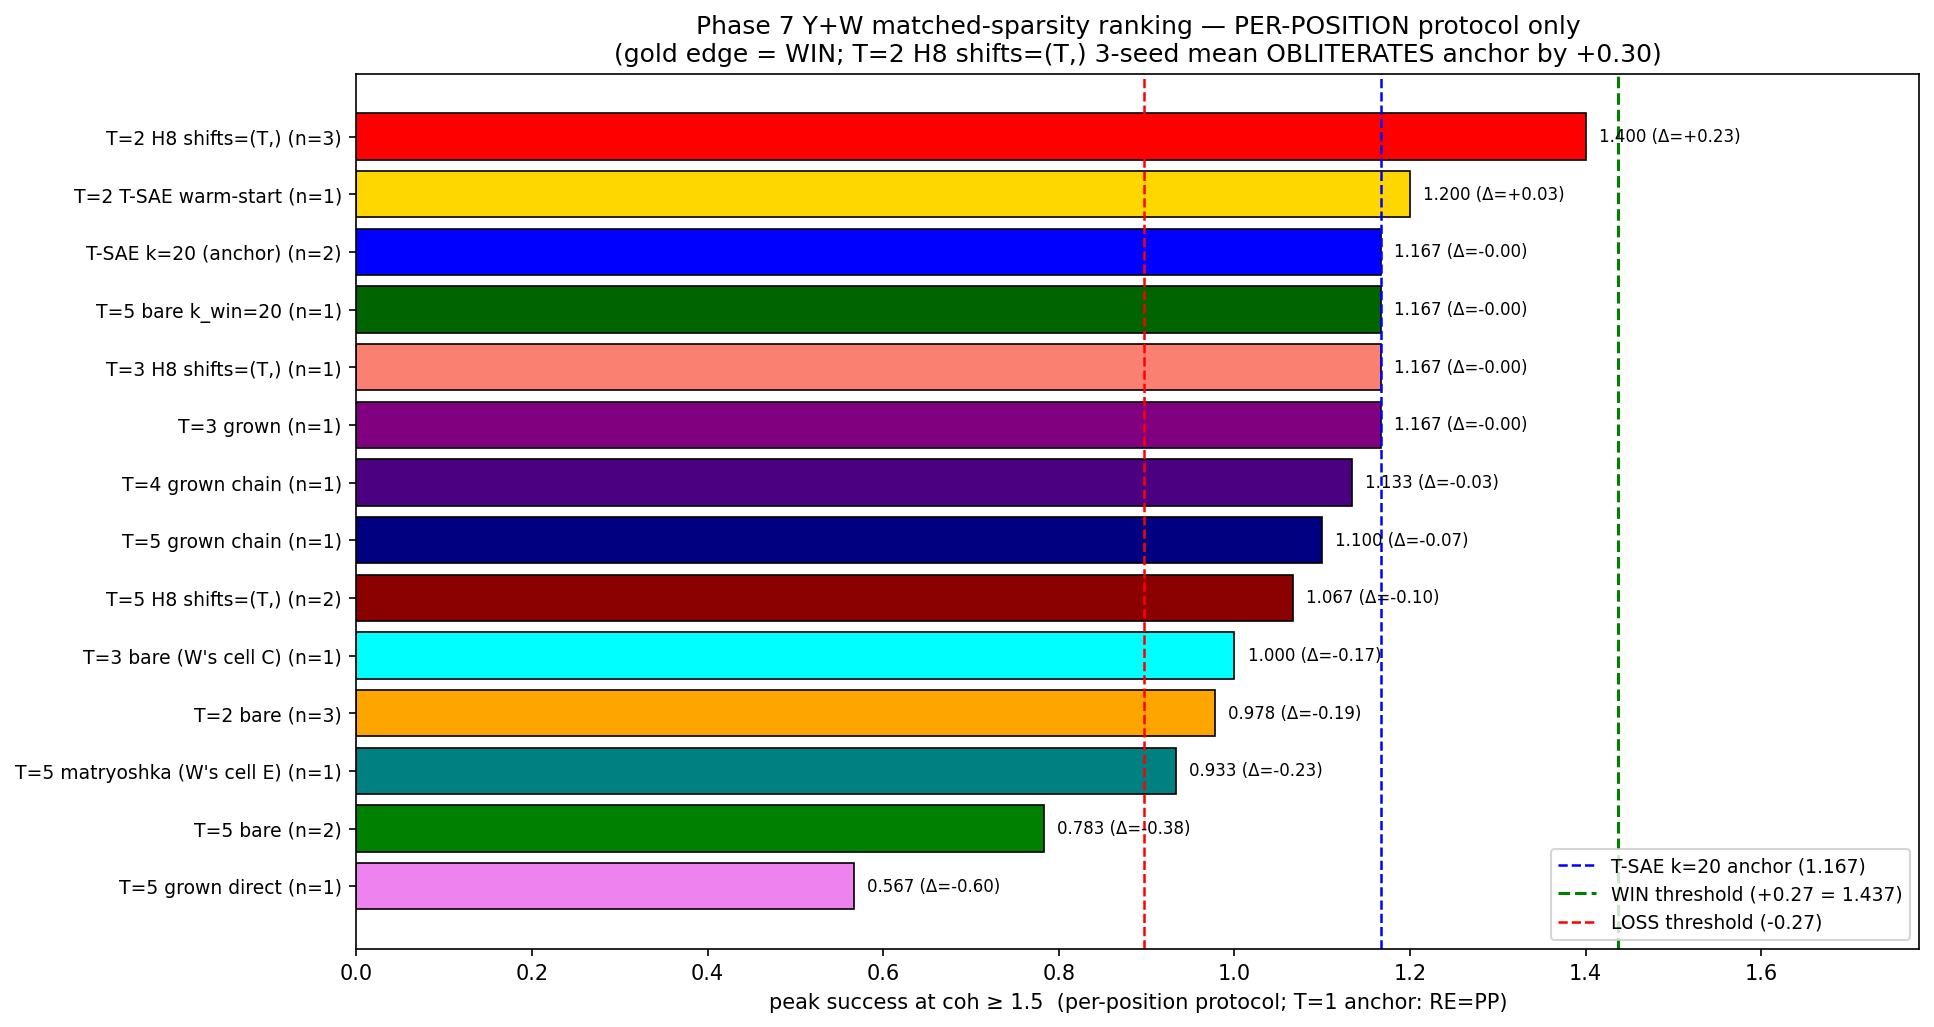
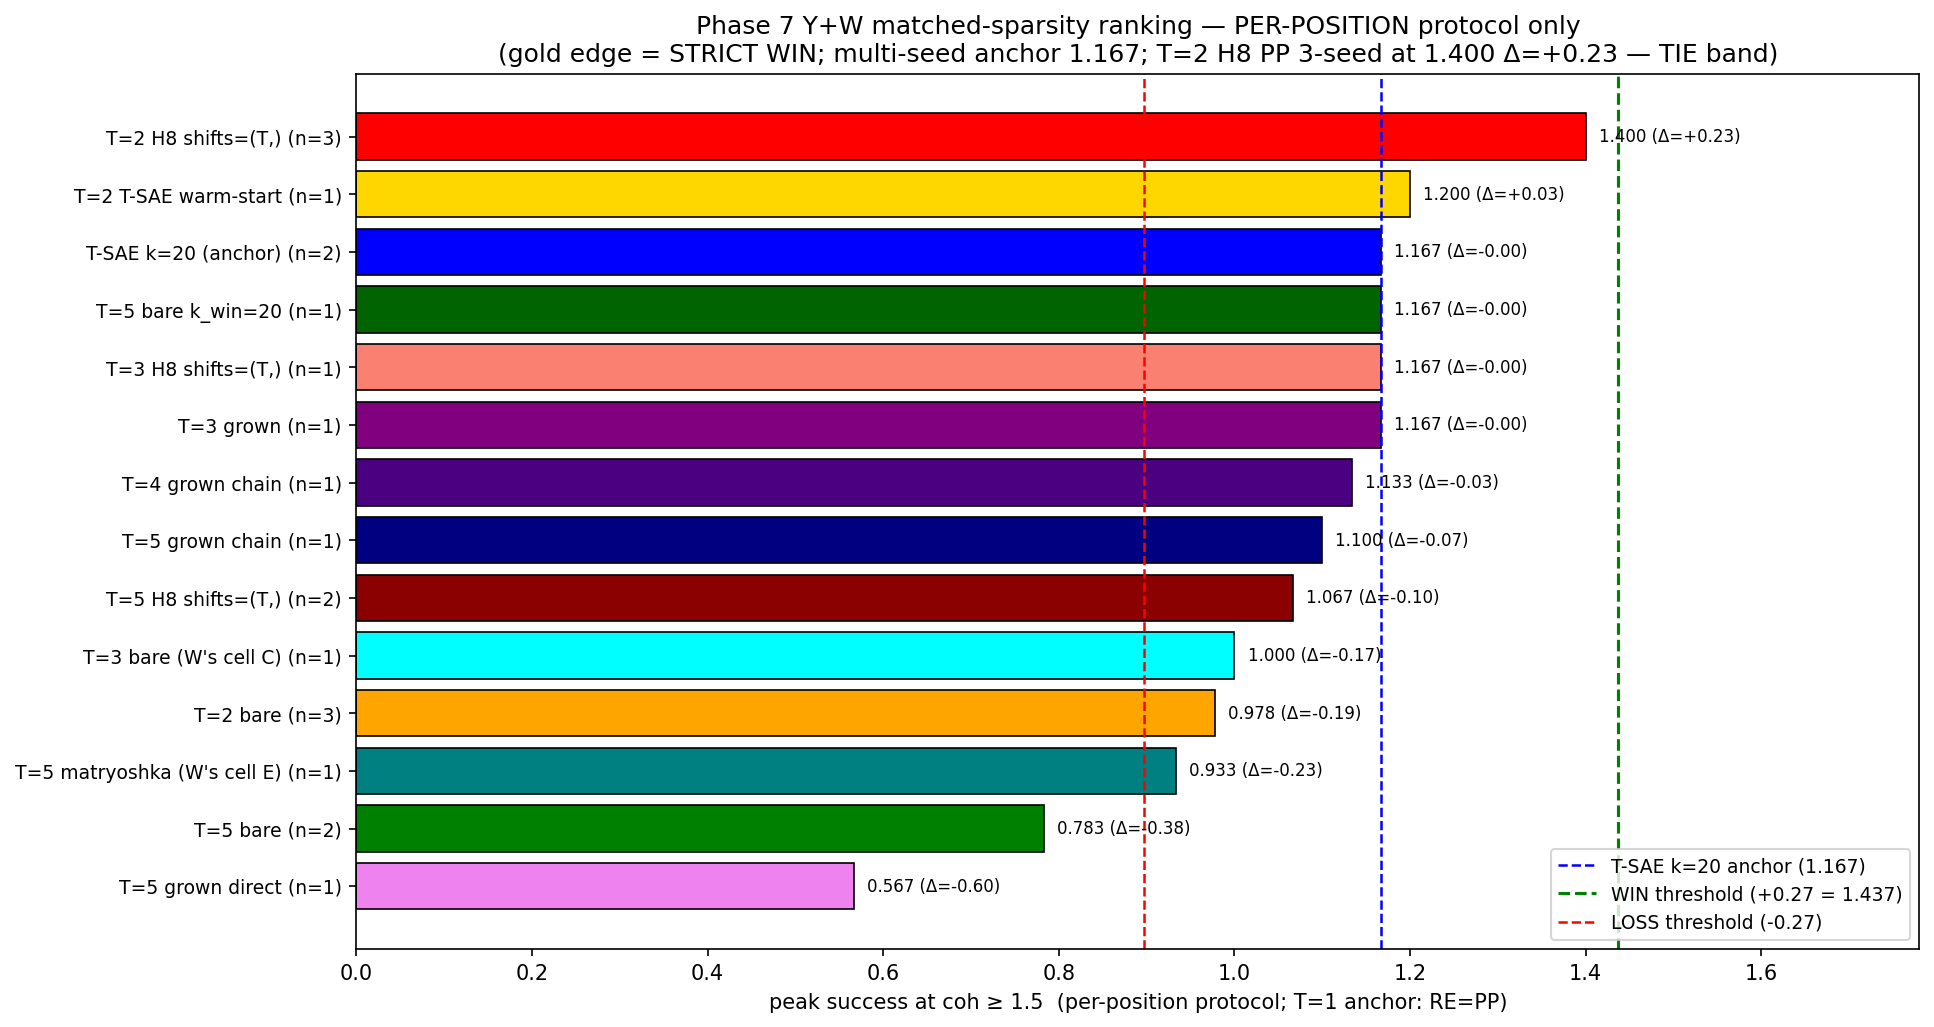
Phase 7 Y: unified_ranking_per_position title corrected for multi-seed anchor
Old title: "T=2 H8 shifts=(T,) 3-seed mean OBLITERATES anchor by +0.30"
(based on single-seed anchor 1.10 — incorrect).

New title: "multi-seed anchor 1.167; T=2 H8 PP 3-seed at 1.400 Δ=+0.23 — TIE band"
(correct under multi-seed anchor; in TIE band ±0.27).

Changed region(s): [[0.2482, 0.0312, 0.9307, 0.0623]]

diff --git a/experiments/phase7_unification/case_studies/steering/plot_unified_pareto.py b/experiments/phase7_unification/case_studies/steering/plot_unified_pareto.py
@@ -287,7 +287,7 @@ def main():
         delta = peak - ANCHOR_15
         ax.text(peak + 0.015, i, f"{peak:.3f} (Δ={delta:+.2f})", fontsize=8, va="center")
     ax.set_title("Phase 7 Y+W matched-sparsity ranking — PER-POSITION protocol only\n"
-                 "(gold edge = WIN; T=2 H8 shifts=(T,) 3-seed mean OBLITERATES anchor by +0.30)")
+                 "(gold edge = STRICT WIN; multi-seed anchor 1.167; T=2 H8 PP 3-seed at 1.400 Δ=+0.23 — TIE band)")
     ax.legend(loc="lower right", fontsize=9)
     ax.invert_yaxis()
     ax.set_xlim(0, max(peaks) * 1.2 + 0.1)
